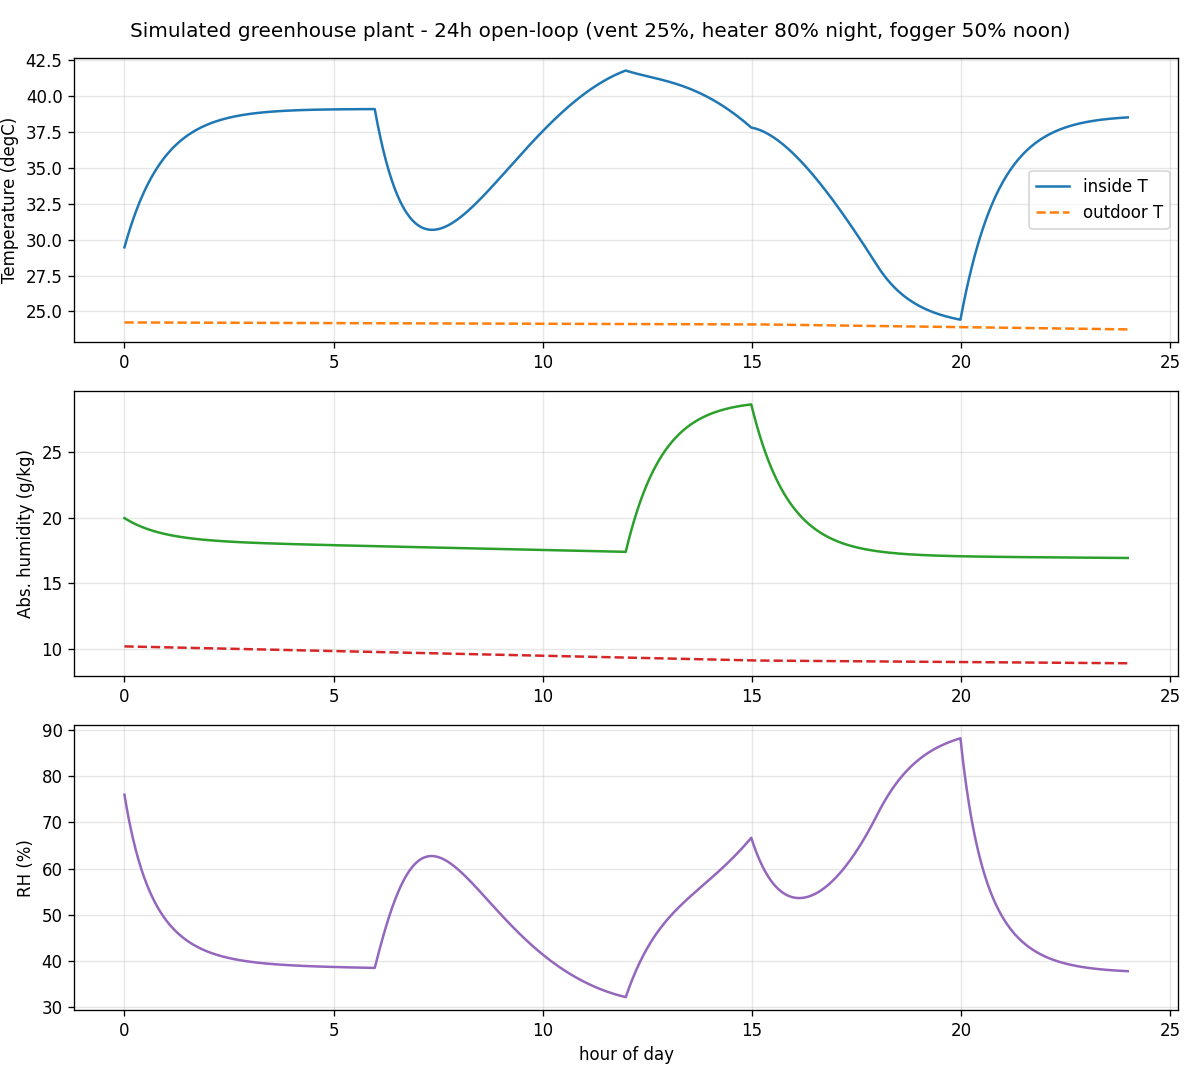
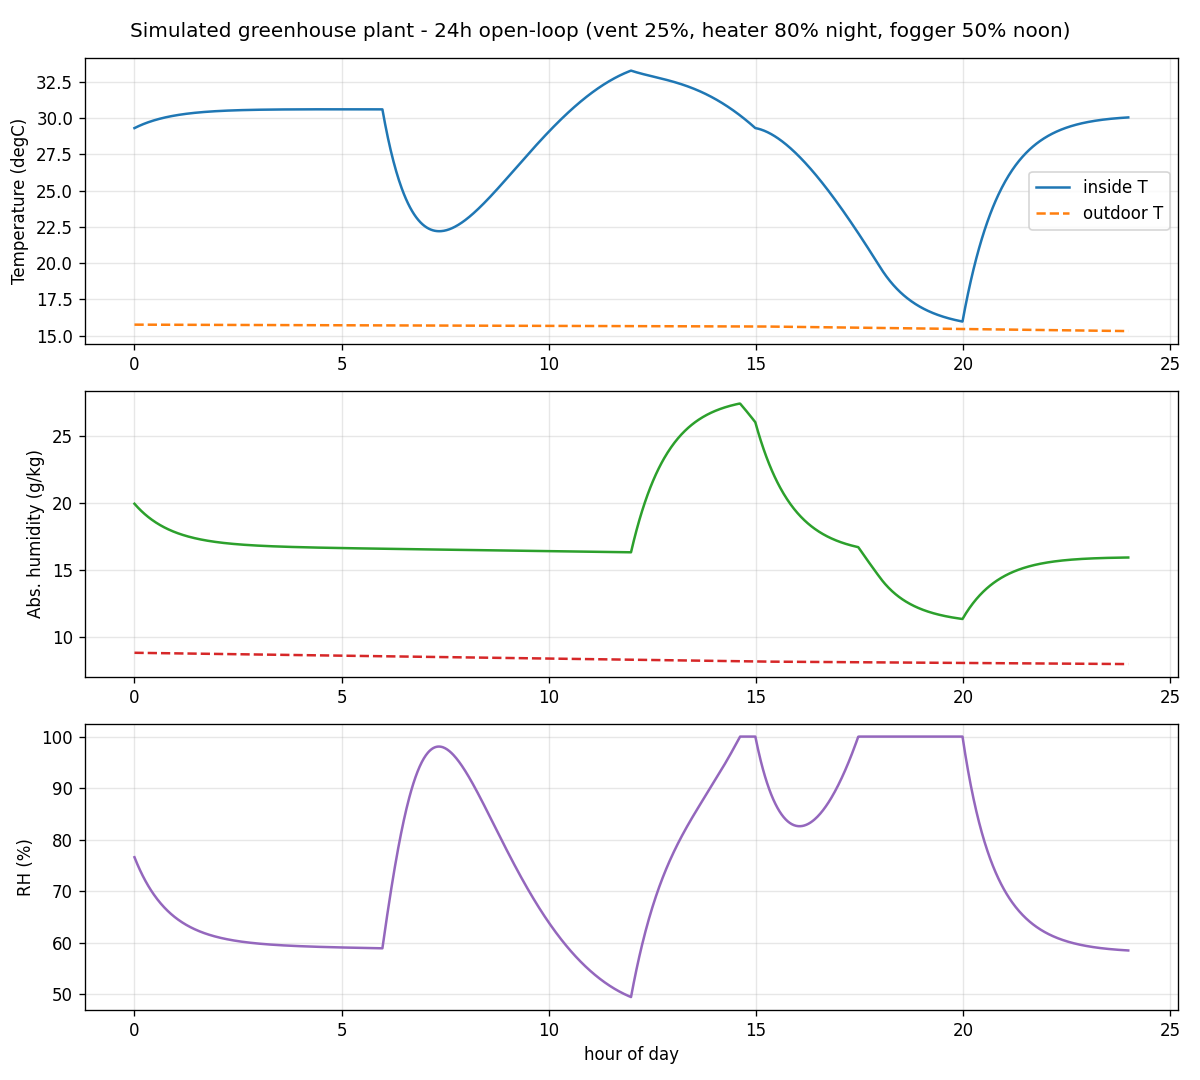
fix(01): CR-01 weather peak alignment - cosine lands T max at t_peak_h

diff --git a/tests/test_greenhouse_model.py b/tests/test_greenhouse_model.py
@@ -67,9 +67,12 @@ def test_bounded_finite_positive_24h():
     # w 11.00..21.17, RH 44..100. Bands below carry margin around those actuals —
     # the plan's literal [16.8, 35.8] floors the T at 16.8 which the probe (16.78)
     # already contradicts, so bounds are probe-faithful supersets.
-    assert T_lo >= 16.5 and T_hi <= 36.0
-    assert w_lo >= 10.9 and w_hi <= 38.5
-    assert rh_lo >= 43.0 and rh_hi <= 100.0
+    # Recalibrated 2026-09-21 after the CR-01 weather fix (peak now truly at
+    # 15:00, coinciding with afternoon solar): actuals T 13.79..42.12,
+    # w 9.82..19.94, RH 32.0..100.0 — physically plausible, bands carry margin.
+    assert T_lo >= 13.5 and T_hi <= 43.0
+    assert w_lo >= 9.5 and w_hi <= 21.0
+    assert rh_lo >= 31.0 and rh_hi <= 100.0
     assert np.isfinite(T) and np.isfinite(w) and np.isfinite(rh)
 
 
@@ -128,6 +131,15 @@ def test_generator_seedability():
     generate_weather_profile(p2, seed=7)
     with open(p1, "rb") as f1, open(p2, "rb") as f2:
         assert f1.read() == f2.read()                       # same seed -> byte-identical
+
+    # temperature peak must land at t_peak_h (default 15.0): smooth the mild
+    # noise with a ~3h rolling mean, then check the argmax hour (CR-01 guard)
+    rows = np.loadtxt(p1, skiprows=1)  # whitespace-delimited (savetxt default)
+    T = rows[:, 1]
+    win = 13
+    smooth = np.convolve(T, np.ones(win) / win, mode="same")
+    peak_h = (rows[np.argmax(smooth), 0]) / 60.0
+    assert abs((peak_h - 15.0 + 12.0) % 24.0 - 12.0) <= 2.0  # within +/-2h, circular
 
 
 def test_step_api_contract():

diff --git a/src/weather_profile_generator.py b/src/weather_profile_generator.py
@@ -19,8 +19,9 @@ def generate_weather_profile(out_path, seed=7, t_mean=20.0, t_amp=6.0,
     t_min = np.arange(0, int(duration_h*60) + 1, interval_min, dtype=int)  # 0..1440
     t_h   = t_min / 60.0
     phase = 2*np.pi*(t_h - t_peak_h)/24.0
-    T_out = t_mean + t_amp*np.sin(phase) + rng.normal(0, 0.5, t_h.size)     # mild noise
-    RH    = np.clip(rh_mean - rh_amp*np.sin(phase) + rng.normal(0, 3.0, t_h.size), 30, 95)  # D-11 anti-correlated
+    # cosine so the daily maximum lands exactly at t_peak_h (a sine would peak 6h late)
+    T_out = t_mean + t_amp*np.cos(phase) + rng.normal(0, 0.5, t_h.size)     # mild noise
+    RH    = np.clip(rh_mean - rh_amp*np.cos(phase) + rng.normal(0, 3.0, t_h.size), 30, 95)  # D-11 anti-correlated
     np.savetxt(out_path, np.column_stack([t_min, T_out, RH]),
                header="time_min,temp_C,rh_pct", comments="", fmt=["%d", "%.2f", "%.2f"])
     return out_path
